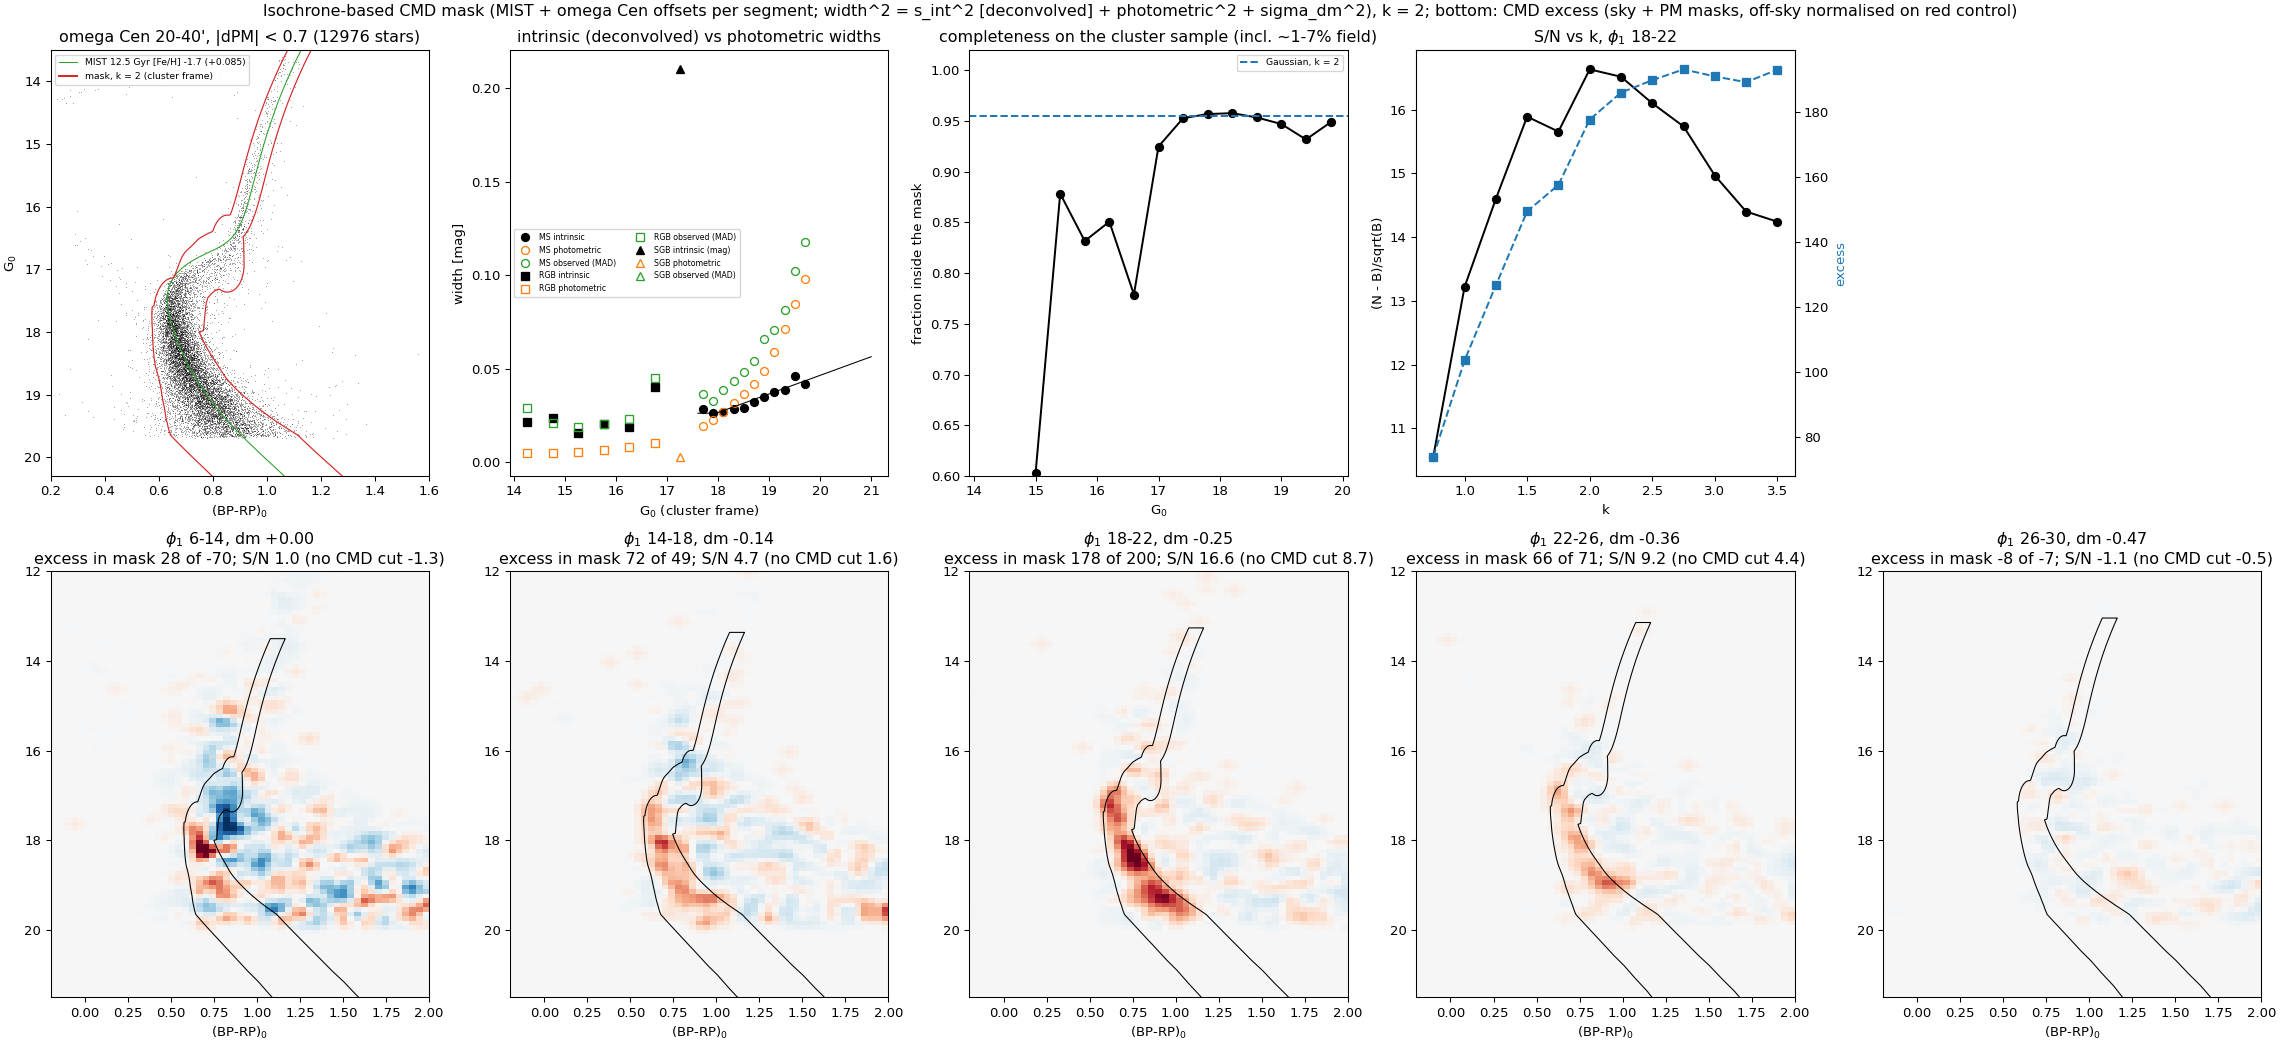
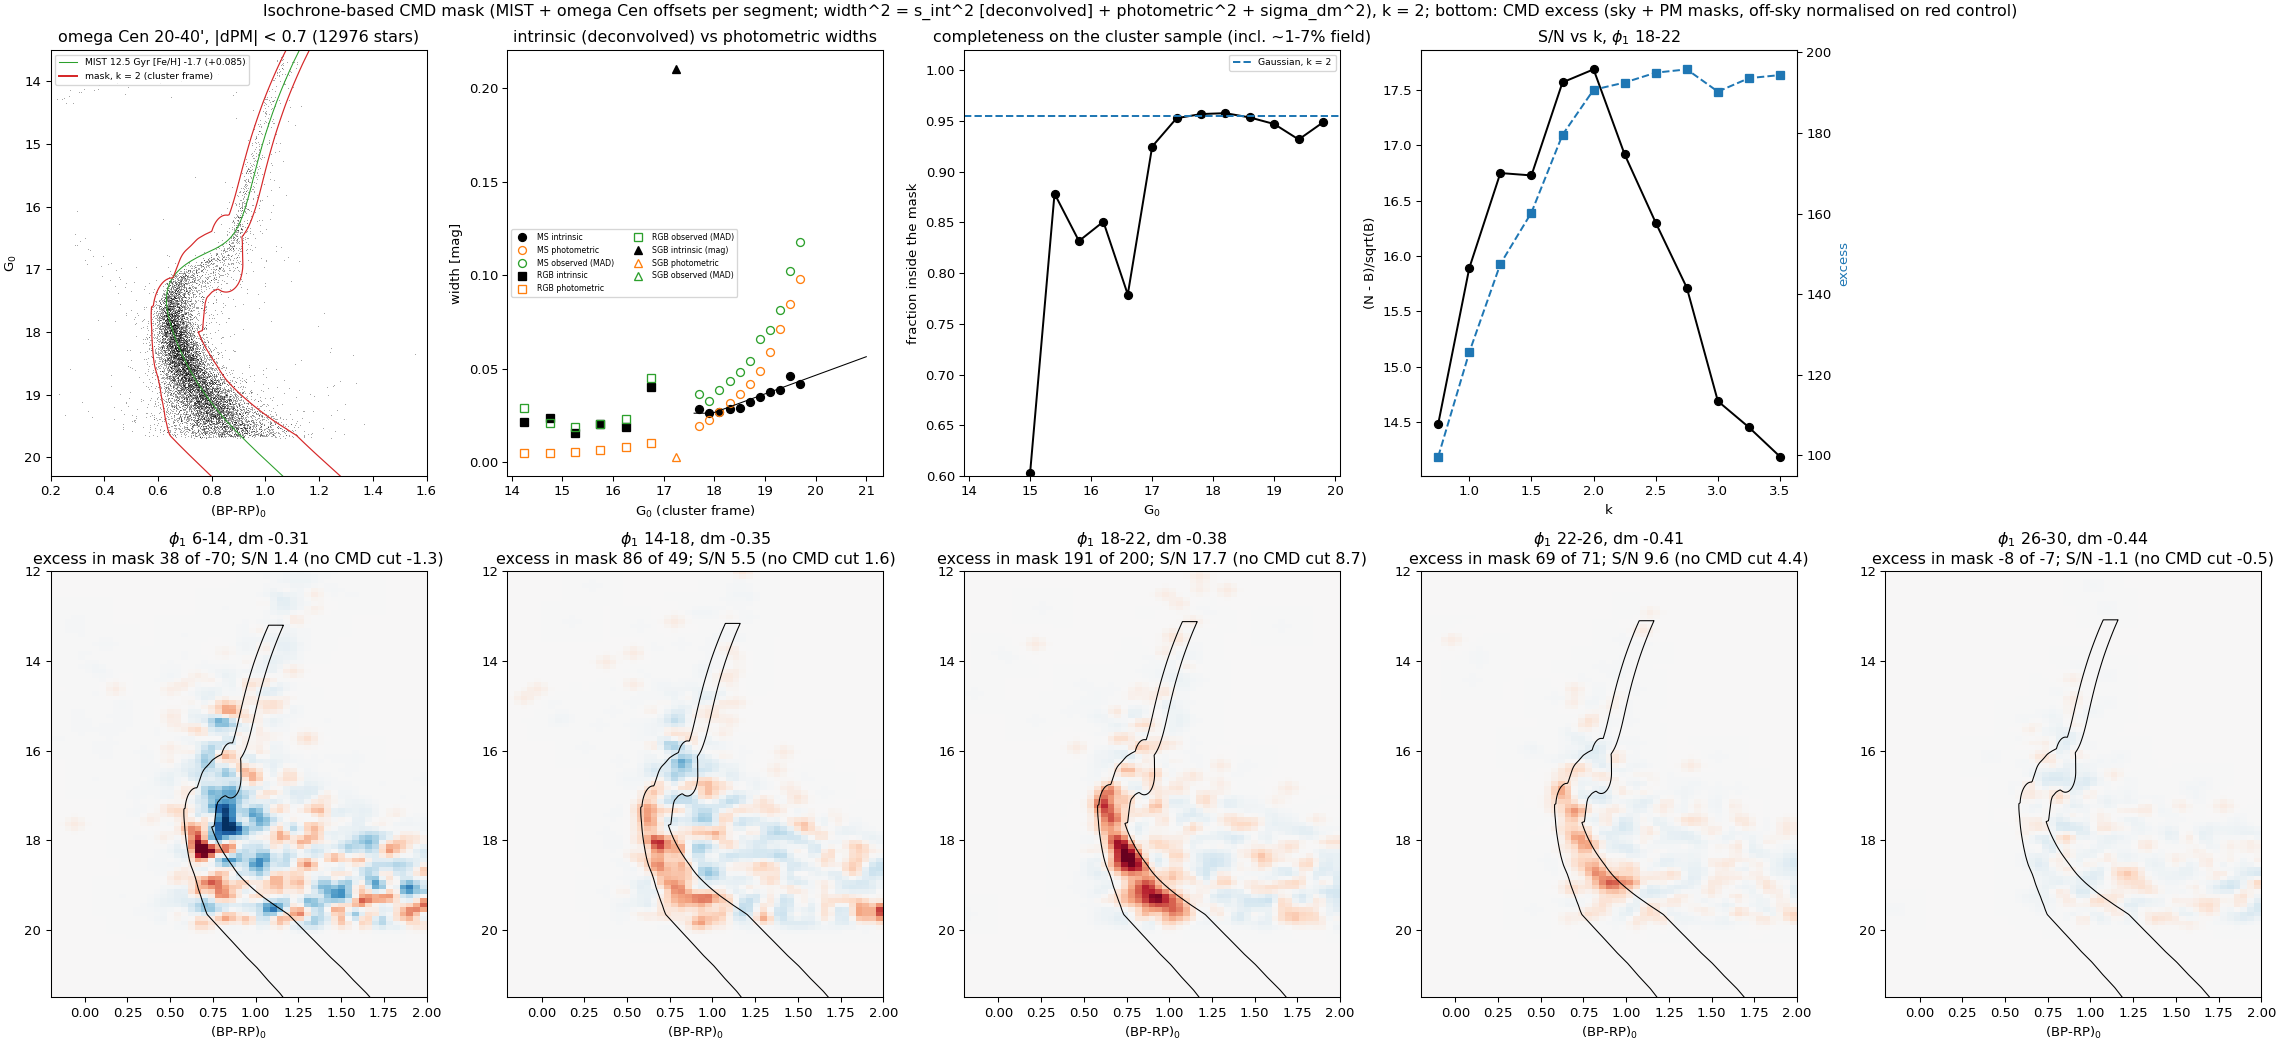
CMD mask: dm refitted with the new mask (max excess S/N per signal bin), new linear relation

diff --git a/bin/streams/gaia_cmd_mask.py b/bin/streams/gaia_cmd_mask.py
@@ -19,6 +19,8 @@ each = isochrone + a smooth offset fitted to omega Cen (MIST's SGB/RGB do not ma
 Intrinsic width per bin (0.2 mag in G0 for MS/RGB, 0.04 mag in colour for SGB): maximise sum log[(1 - f) N(r; mu, s_int^2 + e_i^2)
 + f p_F(r)], p_F from a PM-offset control (same radii, 1.5 < |dPM| < 3, scaled on the red CMD region); s_int(G) on the MS fitted
 linearly in G0 and extrapolated (capped at 0.12), RGB/SGB: medians.
+dm(phi1): refitted with this mask (per signal bin phi1 14-18, 18-22, 22-26 the shift maximising the excess S/N inside the k mask),
+weighted linear relation capped at 0; stored in results/plot_data/gaia_cmd_mask.json.
 Mask for a star (stream frame: G0_t = G0 - dm(phi1)): inside the segment band |r - mu| < k sqrt(s_int^2 + e^2) (+ sigma_dm in the
 magnitude direction on the SGB; on the MS the colour equivalent dc/dG x sigma_dm); HB excluded; G0_t >= 13.5.
 Outputs: plots/gaia_cmd_mask.png (cluster CMD with borders; widths; completeness on the cluster; S/N vs k at phi1 18-22; CMD excess
@@ -192,8 +194,24 @@ def main():
     ml = np.array(GX.MARK["lower"]); tl = GX.track(GX.MARK["lower"], lambda q: np.where(q < ml[0, 0], 0., ml[-1, 1])+0.*q)
     pm = keep & (np.abs(pa-ta(u)) < 2.0) & (np.abs(pd-td(u)) < 1.5) & np.isfinite(c0)
     on = pm & (np.abs(x-tl(u)) < 1.5); off = pm & (np.abs(x-tl(u)) > 4) & (np.abs(x-tl(u)) < 12); sel = on | off
-    zz = np.full(len(u), np.inf); zz[sel] = M.z(c0[sel], g0[sel], sc_all[sel], sg_all[sel], dmf(u[sel])); zz[~np.isfinite(zz)] = np.inf
     ctl = (c0 > 1.25) & (c0 < 2.5) & (g0 < 20)
+    # refit dm with THIS mask: per signal bin, the shift maximising the excess S/N inside the k = 2 mask (grid 0.02 mag);
+    # error = half-width of the S/N peak above S/N_max - 1; then a weighted linear relation, capped at 0 (cluster)
+    dgrid = np.arange(-1.0, 0.31, 0.02); fits = {}
+    for a0, a1 in ((14, 18), (18, 22), (22, 26)):
+        k2 = (u >= a0) & (u < a1); s_ = np.sum(on & k2 & ctl)/max(np.sum(off & k2 & ctl), 1); i_on, i_off = sel & on & k2, sel & off & k2
+        sn = []
+        for d_ in dgrid:
+            zo = M.z(c0[i_on], g0[i_on], sc_all[i_on], sg_all[i_on], d_); zf = M.z(c0[i_off], g0[i_off], sc_all[i_off], sg_all[i_off], d_)
+            Nn, Nb = np.sum(zo < k_def), s_*np.sum(zf < k_def); sn.append((Nn-Nb)/np.sqrt(max(Nb, 1)))
+        sn = np.array(sn); ib = int(np.argmax(sn)); ok = sn >= sn[ib]-1; fits[(a0, a1)] = (float(dgrid[ib]), max(0.5*(dgrid[ok].max()-dgrid[ok].min()), 0.02), float(sn[ib]), sn)
+        print(f"  dm refit phi1 {a0}-{a1}: {dgrid[ib]:+.2f} +- {fits[(a0, a1)][1]:.2f} (S/N {sn[ib]:.1f}; old relation {float(dmf(0.5*(a0+a1))):+.2f})", flush=True)
+    X = np.array([0.5*(a+b) for a, b in fits]); Y = np.array([v[0] for v in fits.values()]); W = 1/np.array([v[1] for v in fits.values()])
+    coef = list(np.polyfit(X, Y, 1, w=W)); dmf = lambda p: np.minimum(np.polyval(coef, p), 0.)
+    print(f"  new relation dm = {coef[1]:+.3f} {coef[0]:+.4f} phi1 (capped at 0): " + ", ".join(f"phi1 {p}: {dmf(p):+.2f} ({5.43*10**(dmf(p)/5):.2f} kpc)" for p in (10, 16, 20, 24, 28)), flush=True)
+    zz = np.full(len(u), np.inf); zz[sel] = M.z(c0[sel], g0[sel], sc_all[sel], sg_all[sel], dmf(u[sel])); zz[~np.isfinite(zz)] = np.inf
+    json.dump(dict(json.loads((ROOT/"results/plot_data/gaia_cmd_mask.json").read_text()), dm_relation=dict(coef=coef, note="dm = min(polyval(coef, phi1), 0); refitted with this mask"),
+                   dm_fits={f"{a}-{b}": dict(dm=v[0], err=v[1], sn=v[2]) for (a, b), v in fits.items()}), open(ROOT/"results/plot_data/gaia_cmd_mask.json", "w"), indent=1, default=float)
     def counts(k2, kk):
         s_ = np.sum(on & k2 & ctl)/max(np.sum(off & k2 & ctl), 1); w_ = (zz < kk) if np.isfinite(kk) else np.ones(len(zz), bool)
         Nn = np.sum(on & k2 & w_); Nb = s_*np.sum(off & k2 & w_); return Nn-Nb, Nb, s_
